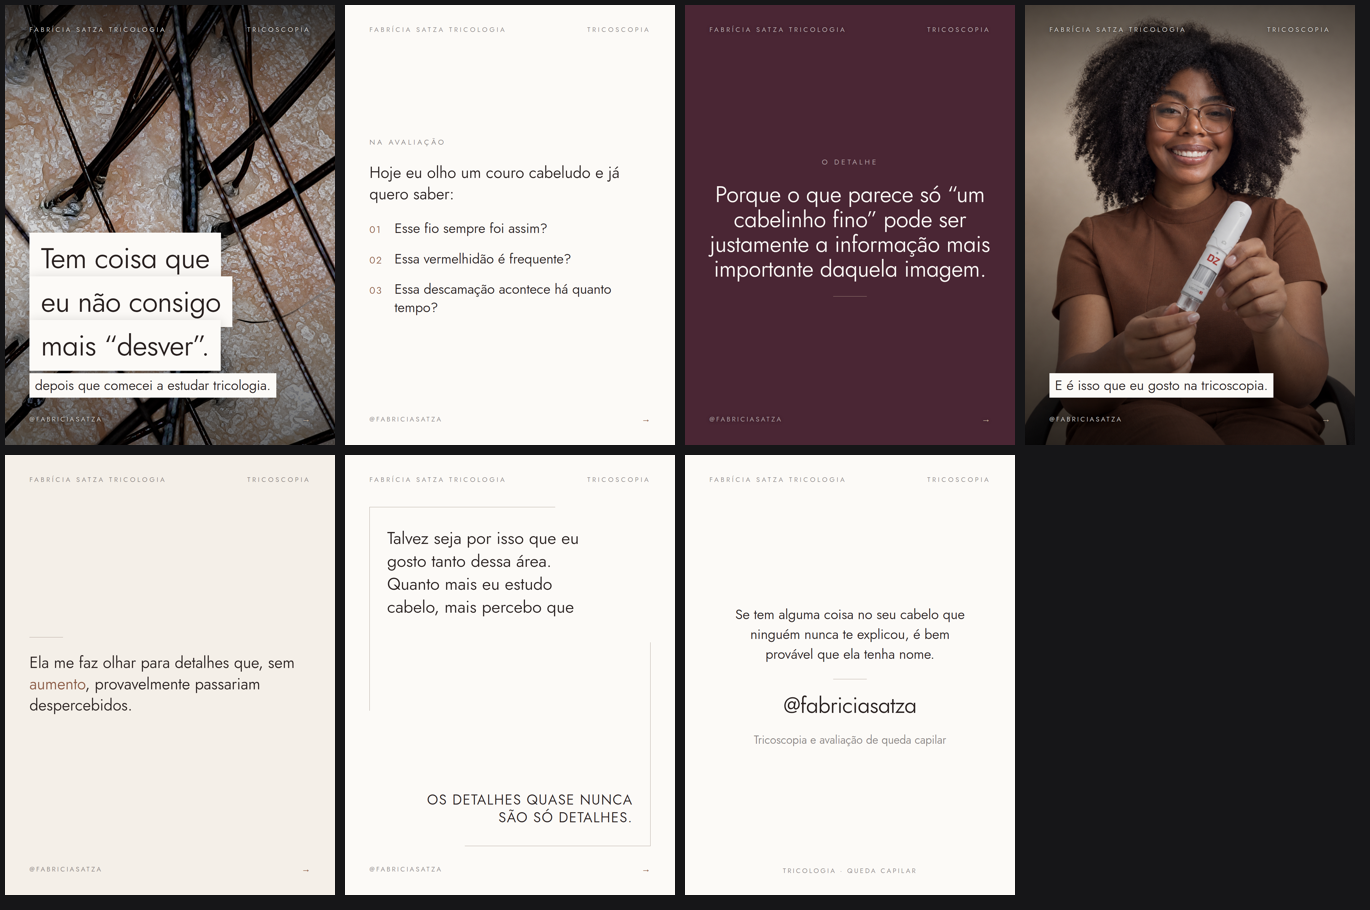
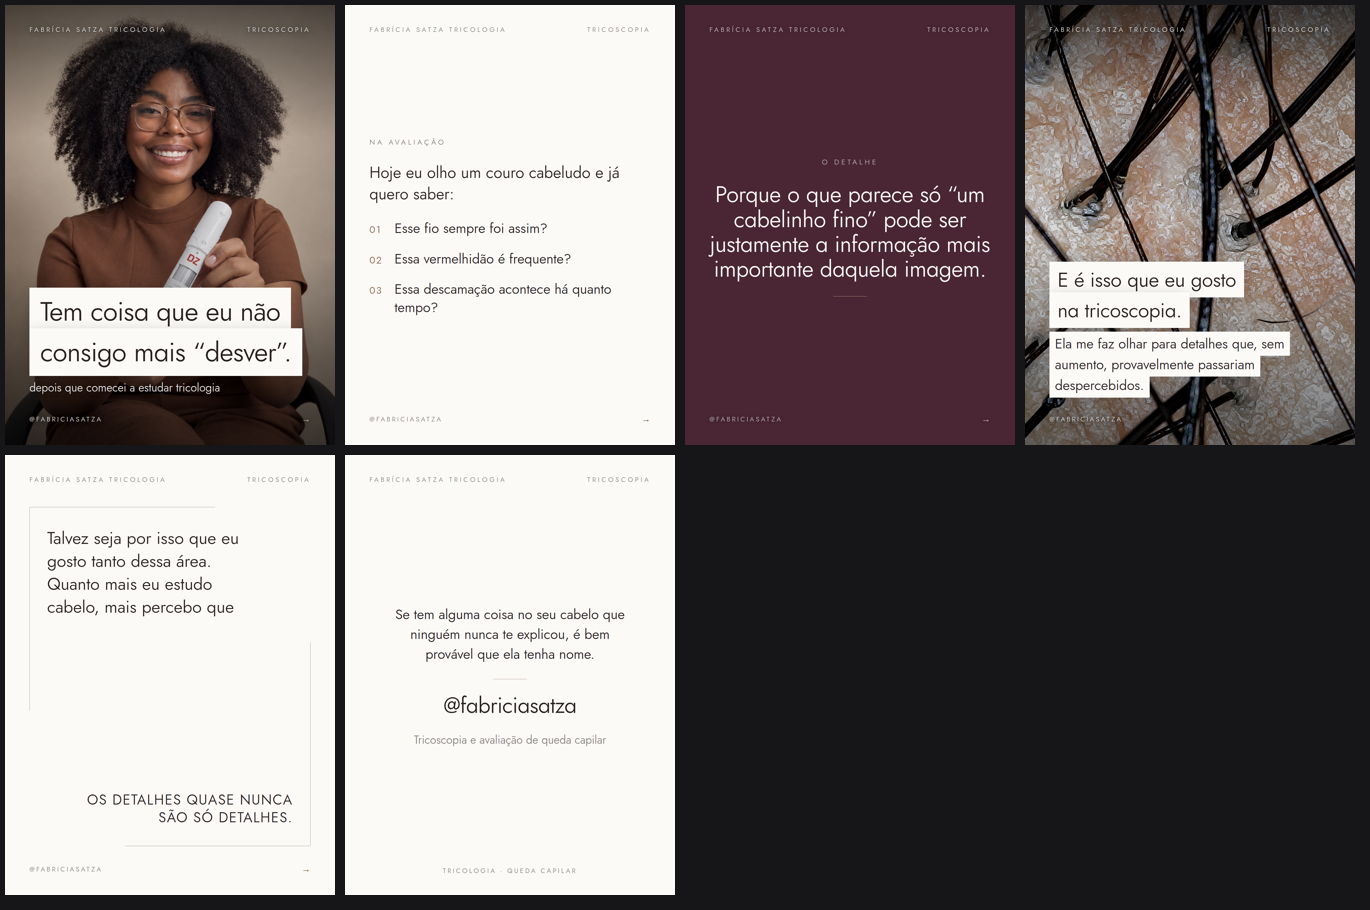
Desver: a foto dela vira a capa
A capa era a tricoscopia com o gancho em duas caixas empilhadas, o que
puxava a peça para o formato de post de frase. Agora a capa é a foto dela
com o tricoscópio, gancho em uma caixa só, encostada no rodapé para o rosto
e o aparelho ficarem livres.

A tricoscopia desceu para o slide 04, onde as duas frases dela cabem juntas
— ali não há rosto nem aparelho por baixo para proteger. Seis slides.

Claude-Session: https://claude.ai/code/session_01DL9VyhWUWZtPxmDSzgTccC

diff --git a/carrossel-desver.html b/carrossel-desver.html
@@ -344,14 +344,15 @@ em,i,.destaque{font-style:normal;color:var(--terracota-esc)}
 <body>
 <div class="dl" onclick="baixar()">&#8595; Baixar ZIP</div>
 
-<!-- 01 ▸ CAPA — a tricoscopia manda; o gancho entra na caixa branca. -->
+<!-- 01 ▸ CAPA — a foto dela. Gancho em caixa branca, encostado no rodape para
+     a caixa nao subir em cima do tricoscopio. -->
 <section class="slide sobre-foto">
-  <img class="foto" src="fotos-desver/tricoscopia-capa.jpg" alt="">
-  <div class="veu" style="background:linear-gradient(to bottom,rgba(0,0,0,.72) 0%,rgba(0,0,0,.30) 22%,rgba(0,0,0,.14) 52%,rgba(0,0,0,.58) 100%)"></div>
+  <img class="foto" src="fotos-desver/fabricia-tricoscopio.jpg" alt="">
+  <div class="veu"></div>
   <div class="cab"><span>Fabrícia Satza Tricologia</span><span>Tricoscopia</span></div>
-  <div class="corpo" style="gap:26px">
-    <div class="display" style="font-size:94px"><span class="caixa caixa-sombra">Tem coisa que eu não consigo mais &ldquo;desver&rdquo;.</span></div>
-    <div class="texto"><span class="caixa">depois que comecei a estudar tricologia.</span></div>
+  <div class="corpo" style="gap:22px">
+    <div class="display" style="font-size:88px"><span class="caixa caixa-sombra">Tem coisa que eu não consigo mais &ldquo;desver&rdquo;.</span></div>
+    <div class="texto-sm" style="color:rgba(252,250,247,.94);text-shadow:0 2px 18px rgba(0,0,0,.7)">depois que comecei a estudar tricologia</div>
   </div>
   <div class="rod"><span>@fabriciasatza</span><span class="segue">&#8594;</span></div>
 </section>
@@ -371,7 +372,7 @@ em,i,.destaque{font-style:normal;color:var(--terracota-esc)}
   <div class="rod"><span>@fabriciasatza</span><span class="segue">&#8594;</span></div>
 </section>
 
-<!-- 03 ▸ VIRADA — vinho ameixa. Última publicada foi terracota. -->
+<!-- 03 ▸ VIRADA — vinho ameixa. A última publicada foi terracota. -->
 <section class="slide escuro">
   <div class="cab"><span>Fabrícia Satza Tricologia</span><span>Tricoscopia</span></div>
   <div class="corpo centro">
@@ -382,28 +383,20 @@ em,i,.destaque{font-style:normal;color:var(--terracota-esc)}
   <div class="rod"><span>@fabriciasatza</span><span class="segue">&#8594;</span></div>
 </section>
 
-<!-- 04 ▸ FOTO COM CAIXA — uma linha só, para a caixa não cobrir o tricoscópio. -->
+<!-- 04 ▸ TRICOSCOPIA — aqui a caixa pode crescer: nao ha rosto nem aparelho
+     por baixo para proteger. As duas frases dela cabem juntas. -->
 <section class="slide sobre-foto">
-  <img class="foto" src="fotos-desver/fabricia-tricoscopio.jpg" alt="">
-  <div class="veu"></div>
+  <img class="foto" src="fotos-desver/tricoscopia-capa.jpg" alt="">
+  <div class="veu" style="background:linear-gradient(to bottom,rgba(0,0,0,.70) 0%,rgba(0,0,0,.28) 20%,rgba(0,0,0,.12) 48%,rgba(0,0,0,.52) 100%)"></div>
   <div class="cab"><span>Fabrícia Satza Tricologia</span><span>Tricoscopia</span></div>
-  <div class="corpo">
-    <div class="texto"><span class="caixa caixa-sombra">E é isso que eu gosto na tricoscopia.</span></div>
+  <div class="corpo" style="gap:26px">
+    <div class="titulo" style="font-size:66px"><span class="caixa caixa-sombra">E é isso que eu gosto na tricoscopia.</span></div>
+    <div class="texto"><span class="caixa">Ela me faz olhar para detalhes que, sem aumento, provavelmente passariam despercebidos.</span></div>
   </div>
   <div class="rod"><span>@fabriciasatza</span><span class="segue">&#8594;</span></div>
 </section>
 
-<!-- 05 ▸ RESPIRO — uma frase só, em marfim. -->
-<section class="slide quente">
-  <div class="cab"><span>Fabrícia Satza Tricologia</span><span>Tricoscopia</span></div>
-  <div class="corpo">
-    <div class="filete"></div>
-    <div class="subtitulo">Ela me faz olhar para detalhes que, sem <em>aumento</em>, provavelmente passariam despercebidos.</div>
-  </div>
-  <div class="rod"><span>@fabriciasatza</span><span class="segue">&#8594;</span></div>
-</section>
-
-<!-- 06 ▸ QUADRO — a frase que a pessoa printa. -->
+<!-- 05 ▸ QUADRO — a frase que a pessoa printa. -->
 <section class="slide">
   <div class="cab"><span>Fabrícia Satza Tricologia</span><span>Tricoscopia</span></div>
   <div class="corpo">
@@ -415,7 +408,7 @@ em,i,.destaque{font-style:normal;color:var(--terracota-esc)}
   <div class="rod"><span>@fabriciasatza</span><span class="segue">&#8594;</span></div>
 </section>
 
-<!-- 07 ▸ CHAMADA — convida, não empurra. -->
+<!-- 06 ▸ CHAMADA — convida, não empurra. -->
 <section class="slide">
   <div class="cab"><span>Fabrícia Satza Tricologia</span><span>Tricoscopia</span></div>
   <div class="corpo centro">
